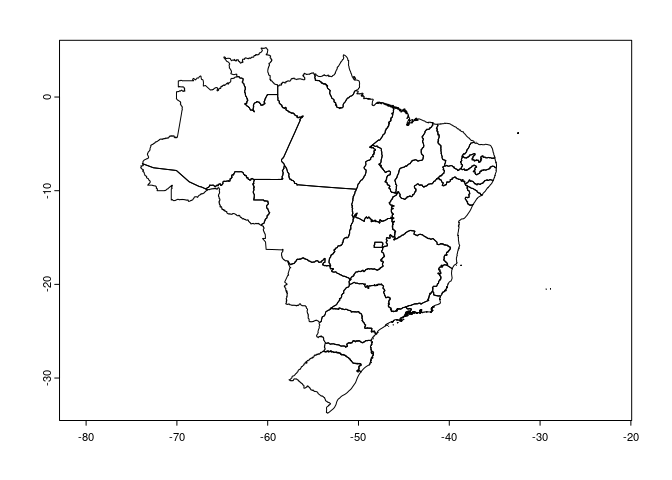
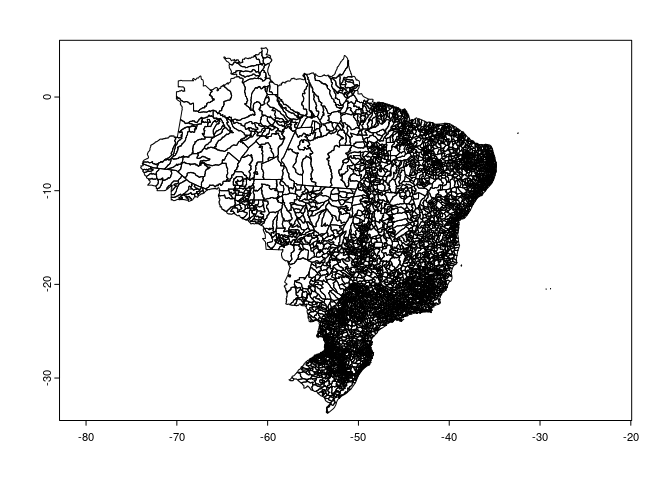
switch to BRadmin.shp

Changed region(s): [[0.2188, 0.0938, 0.75, 0.8438]]

diff --git a/Inputs/Cerrado-LC-Input.md b/Inputs/Cerrado-LC-Input.md
@@ -49,7 +49,7 @@ r
     ## resolution  : 0.008983153, 0.008983153  (x, y)
     ## extent      : -60.47944, -41.27346, -24.68777, -2.328703  (xmin, xmax, ymin, ymax)
     ## coord. ref. : lon/lat WGS 84 (EPSG:4326) 
-    ## source      : spat_Yza4IxtN2yOkXLT_33626.tif 
+    ## source      : spat_YDwoRatykQ6n51D_23166.tif 
     ## names       : class~_2001, class~_2002, class~_2003, class~_2004, class~_2005, class~_2006, ... 
     ## min values  :           3,           3,           3,           3,           3,           3, ... 
     ## max values  :          48,          48,          48,          48,          48,          48, ...
@@ -63,38 +63,36 @@ plot(r[[1]])
 This multi-layer raster needs to be clipped to the extent of our four
 states of interest.
 
-We do this using state boundary vector (.shp) data downloaded from the
-[MapBiomas Platform](https://plataforma.brasil.mapbiomas.org/) (Source:
-IBGE; Year: 2018).
+We do this using municiaplity and state boundary vector (.shp) data
 
 ``` r
-s <- vect("data/vector/dashboard_states-static-layer/dashboard_states-static-layer.shp")
-plot(s)
+munis <- vect("data/vector/BRadmin.shp")
+plot(munis)
 ```
 
 ![](Cerrado-LC-Input_files/figure-gfm/unnamed-chunk-3-1.png)<!-- -->
 
 ``` r
-head(s)
+head(munis)
 ```
 
-    ##      id version           name source inserted_a updated_at category category_n
-    ## 1 18348       1        SERGIPE   IBGE 2020/02/07 2020/02/07    state     Estado
-    ## 2 18349       1    MARANH\xc3O   IBGE 2020/02/07 2020/02/07    state     Estado
-    ## 3 18359       1 ESPIRITO SANTO   IBGE 2020/02/07 2020/02/07    state     Estado
-    ## 4 18367       1       AMAZONAS   IBGE 2020/02/07 2020/02/07    state     Estado
-    ## 5 18368       1        RORAIMA   IBGE 2020/02/07 2020/02/07    state     Estado
-    ## 6 18369       1       GOI\xc1S   IBGE 2020/02/07 2020/02/07    state     Estado
-    ##     area_ha
-    ## 1   2192707
-    ## 2  32964450
-    ## 3   4607477
-    ## 4 155917911
-    ## 5  22427541
-    ## 6  34012812
+    ##                   NM_MUNICIP CD_GEOCMU CD_GEOCMUn State NM_ESTADO NM_REGIAO
+    ## 1                      CAIUÁ   3509106    3509106    35 SÃO PAULO   SUDESTE
+    ## 2                   CASTILHO   3511003    3511003    35 SÃO PAULO   SUDESTE
+    ## 3                    DRACENA   3514403    3514403    35 SÃO PAULO   SUDESTE
+    ## 4           ESTRELA DO NORTE   3515301    3515301    35 SÃO PAULO   SUDESTE
+    ## 5 EUCLIDES DA CUNHA PAULISTA   3515350    3515350    35 SÃO PAULO   SUDESTE
+    ## 6            MARABÁ PAULISTA   3528700    3528700    35 SÃO PAULO   SUDESTE
+    ##   CD_GEOCUF
+    ## 1        35
+    ## 2        35
+    ## 3        35
+    ## 4        35
+    ## 5        35
+    ## 6        35
 
-We can see state ids and state names. States ids for our states are
-`18369`, `18396`, `18397`, `18399`
+We can see state ids and state names. States ids for our states are 50,
+51, 52, 31
 
 The accents on some state names are not being handled well (giving
 errors/warnings). We’ll fix this below before writing out our subset
@@ -102,10 +100,10 @@ shapefile containing only the four states we want.
 
 ``` r
 #state ids in id column
-sids <- c(18369, 18396, 18397, 18399)
+sids <- c(50, 51, 52, 31)
 
 #subset
-G3MGs <- s[s$id %in% sids,]
+G3MGs <- munis[munis$State %in% sids,]
 plot(G3MGs)
 ```
 
@@ -115,35 +113,26 @@ plot(G3MGs)
 head(G3MGs)
 ```
 
-    ##      id version               name source inserted_a updated_at category
-    ## 1 18369       1           GOI\xc1S   IBGE 2020/02/07 2020/02/07    state
-    ## 2 18396       1 MATO GROSSO DO SUL   IBGE 2020/02/07 2020/02/07    state
-    ## 3 18397       1        MATO GROSSO   IBGE 2020/02/07 2020/02/07    state
-    ## 4 18399       1       MINAS GERAIS   IBGE 2020/02/07 2020/02/07    state
-    ##   category_n  area_ha
-    ## 1     Estado 34012812
-    ## 2     Estado 35714807
-    ## 3     Estado 90321339
-    ## 4     Estado 58652527
+    ##     NM_MUNICIP CD_GEOCMU CD_GEOCMUn State          NM_ESTADO    NM_REGIAO
+    ## 1   ÁGUA CLARA   5000203    5000203    50 MATO GROSSO DO SUL CENTRO-OESTE
+    ## 2  ALCINÓPOLIS   5000252    5000252    50 MATO GROSSO DO SUL CENTRO-OESTE
+    ## 3      AMAMBAI   5000609    5000609    50 MATO GROSSO DO SUL CENTRO-OESTE
+    ## 4    ANASTÁCIO   5000708    5000708    50 MATO GROSSO DO SUL CENTRO-OESTE
+    ## 5 ANAURILÂNDIA   5000807    5000807    50 MATO GROSSO DO SUL CENTRO-OESTE
+    ## 6     ANGÉLICA   5000856    5000856    50 MATO GROSSO DO SUL CENTRO-OESTE
+    ##   CD_GEOCUF
+    ## 1        50
+    ## 2        50
+    ## 3        50
+    ## 4        50
+    ## 5        50
+    ## 6        50
 
 ``` r
 #fix GOIAS name
-G3MGs[1,'name'] <- "GOIAS"
-head(G3MGs)
-```
+#G3MGs[1,'name'] <- "GOIAS"
+#head(G3MGs)
 
-    ##      id version               name source inserted_a updated_at category
-    ## 1 18369       1              GOIAS   IBGE 2020/02/07 2020/02/07    state
-    ## 2 18396       1 MATO GROSSO DO SUL   IBGE 2020/02/07 2020/02/07    state
-    ## 3 18397       1        MATO GROSSO   IBGE 2020/02/07 2020/02/07    state
-    ## 4 18399       1       MINAS GERAIS   IBGE 2020/02/07 2020/02/07    state
-    ##   category_n  area_ha
-    ## 1     Estado 34012812
-    ## 2     Estado 35714807
-    ## 3     Estado 90321339
-    ## 4     Estado 58652527
-
-``` r
 #write to file
 outfile <- "data/vector/G3MGs.shp"
 writeVector(G3MGs, outfile, overwrite=TRUE)
@@ -182,13 +171,14 @@ rs4
     ## resolution  : 0.008983153, 0.008983153  (x, y)
     ## extent      : -60.09316, -41.65973, -24.00505, -9.829635  (xmin, xmax, ymin, ymax)
     ## coord. ref. : lon/lat WGS 84 (EPSG:4326) 
-    ## source      : memory 
+    ## source      : spat_19sMmjisJrq2lgs_23166.tif 
     ## names       : class~_2001, class~_2002, class~_2003, class~_2004, class~_2005, class~_2006, ... 
     ## min values  :           3,           3,           3,           3,           3,           3, ... 
     ## max values  :          48,          48,          48,          48,          48,          48, ...
 
 ``` r
 plot(rs4[[1]])
+plot(s4, add=T)
 ```
 
 ![](Cerrado-LC-Input_files/figure-gfm/unnamed-chunk-7-1.png)<!-- -->
@@ -222,8 +212,8 @@ plot(new)
 
 ![](Cerrado-LC-Input_files/figure-gfm/unnamed-chunk-9-1.png)<!-- -->
 
-Now reclassify (no need for disaggregation as before, because collection
-6 include classes for soybeans etc)
+Now reclassify (no need for disaggregation like for CRAFTY-Brazil,
+because collection 6 include classes for soybeans etc)
 
 ``` r
 classification <- read_excel(paste0("data/mapbiomas6/MapBiomas_CRAFTY_classifications_v6.xlsx"), sheet = 'Mapbiomas6', range="G1:H35", col_names=T)  
